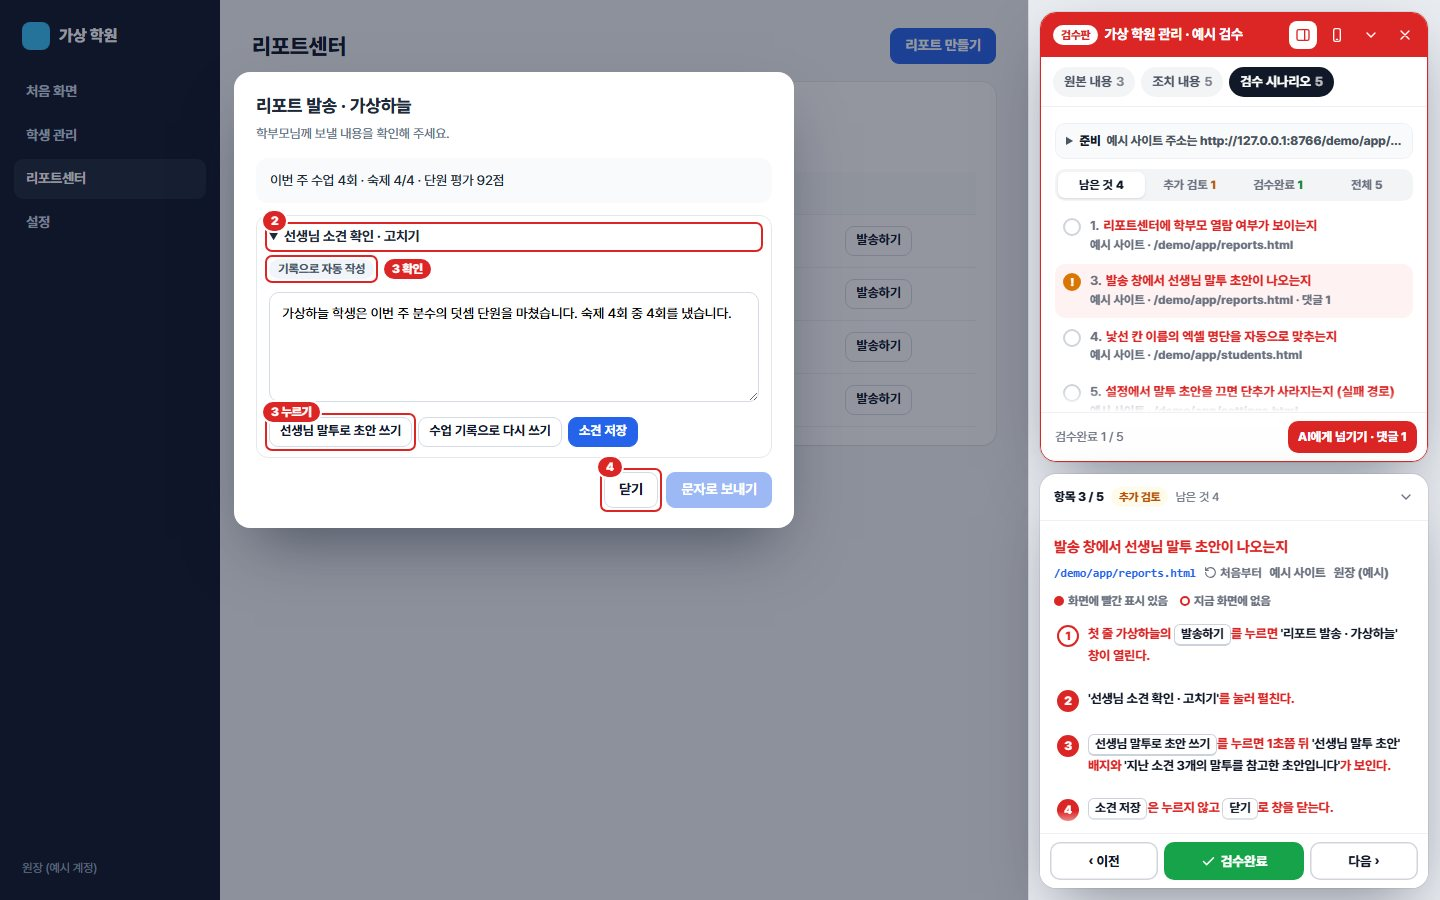
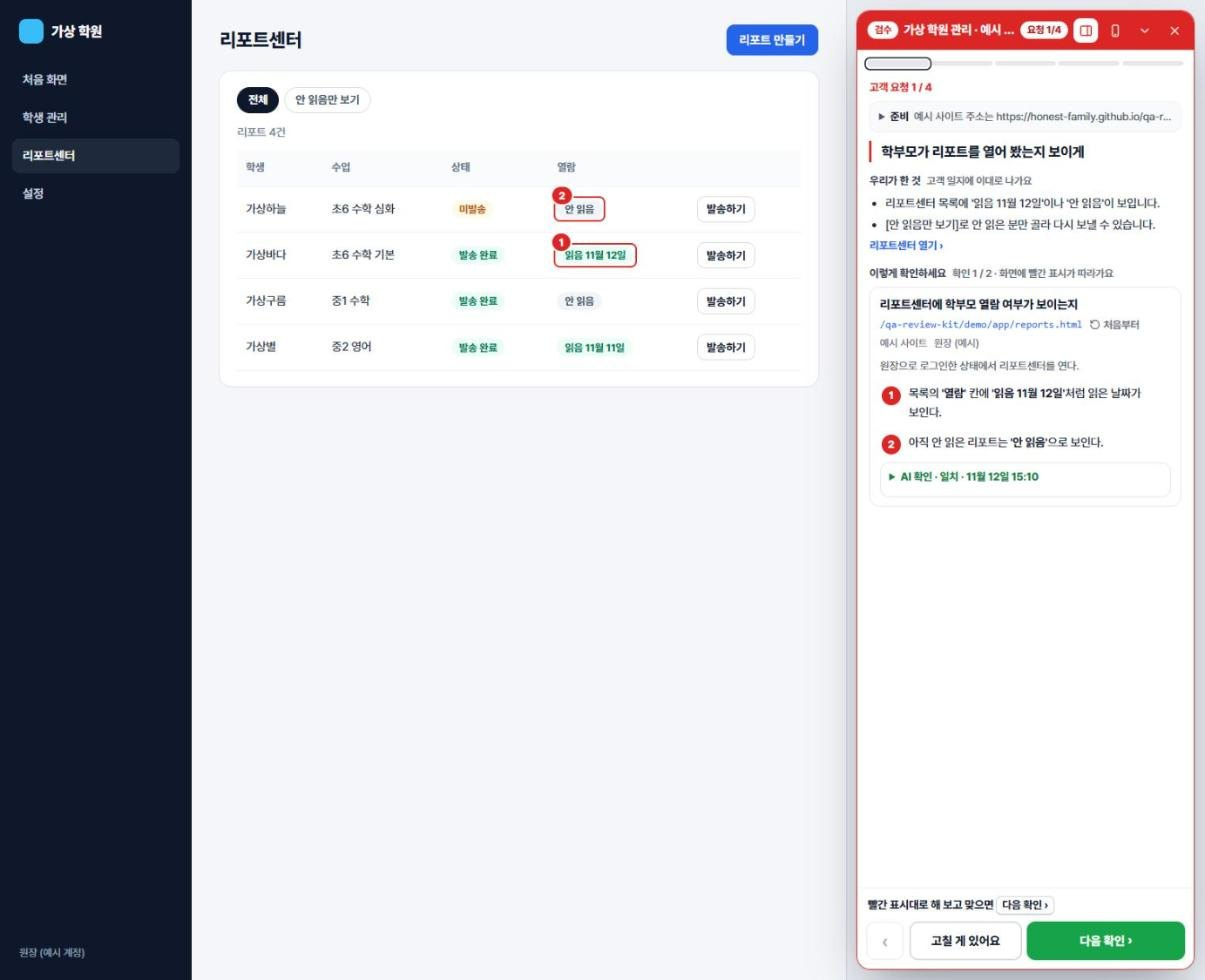
검수 안내 화면 그림을 3.0 화면(상자 하나에 고객 요청 하나씩)으로 교체. 되돌리기: 이 커밋 git revert

diff --git a/index.html b/index.html
@@ -54,7 +54,7 @@ h1{font-size:25px}
   </div>
 
   <figure>
-    <img src="assets/preview.jpg" width="1440" height="900" alt="왼쪽에 예시 사이트, 오른쪽에 고객 요청 하나와 확인 순서, 맞아요·고칠 게 있어요 버튼이 있는 검수 상자">
+    <img src="assets/preview.jpg" width="1205" height="980" alt="왼쪽에 예시 사이트, 오른쪽에 고객 요청 하나와 확인 순서, 맞아요·고칠 게 있어요 버튼이 있는 검수 상자">
     <figcaption>넓은 화면에서는 사이트 옆에 나란히 열려서 빨간 표시를 가리지 않아요. 맨 위 막대에서 확인한 요청은 초록, 고칠 게 있는 요청은 주황으로 바뀌어요.</figcaption>
   </figure>
 
